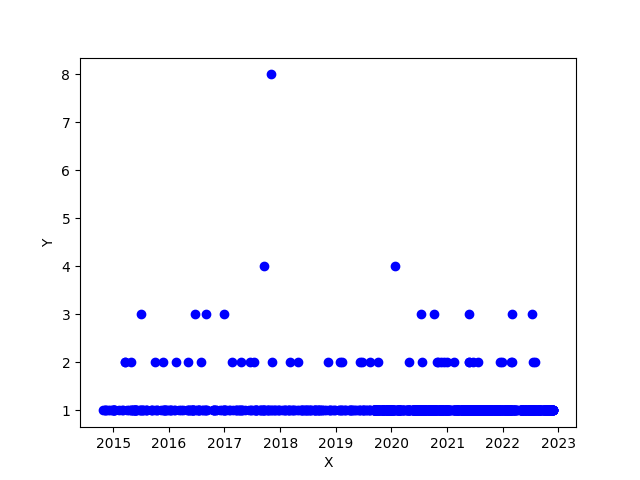
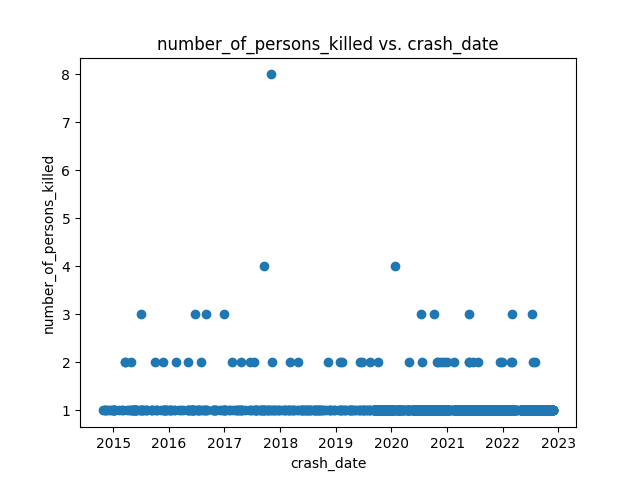
edit README

diff --git a/main.py b/main.py
@@ -24,8 +24,11 @@ count = client.get( # Get the number of collision after 2014-10-28 where number_
     # conditional clauses
     where="crash_date > '2014-10-28T00:00:00.000' AND number_of_persons_killed is not null AND number_of_persons_killed > 0",
 )
-print(count) # Number of collision in total
-print(int(count[0]["count_collision_id"]) / (8 * 365)) # Number of collision average per day
+print("High-level Analysis:")
+print(f"The total number of collisions from 2014-10-28 is: {count[0]['count_collision_id']}") # Number of collision in total
+avg_collision = int(count[0]["count_collision_id"]) / (8 * 365) # Number of collision average per day
+print(f"The average number of collisions from 2014-10-28 is: {avg_collision}")
+print("------------------------------------------------------------------------------")
 
 # Get the number of collision after 2014-10-28 where number_of_persons_killed is greater than 0
 # plus location constraint (to omit bad data)
@@ -40,23 +43,23 @@ records = client.get(
 
 # Convert to pandas DataFrame
 df = pd.DataFrame.from_records(records)
-print(df.head)
-print(df.dtypes)
 df["crash_date"] = pd.to_datetime(df["crash_date"])
 df["crash_time"] = pd.to_datetime(df["crash_time"], format="%H:%M")
 df["latitude"] = df["latitude"].astype(float)
 df["longitude"] = df["longitude"].astype(float)
 df["number_of_persons_injured"] = df["number_of_persons_injured"].astype(int)
 df["number_of_persons_killed"] = df["number_of_persons_killed"].astype(int)
-print(df.dtypes)
+print("DataFrame Overview: ")
+print(df.head)
 
 # find the relationship between crash_date and crashes
 x = df["crash_date"]
 y = df["number_of_persons_killed"]
 # plotting number_of_persons_killed vs. crash_date
-plt.plot(x, y, "bo")
-plt.xlabel("X")
-plt.ylabel("Y")
+plt.plot(x, y, "o")
+plt.xlabel("crash_date")
+plt.ylabel("number_of_persons_killed")
+plt.title("number_of_persons_killed vs. crash_date")
 plt.savefig("results/date_crashes.png")
 plt.close()
 
@@ -64,5 +67,9 @@ plt.close()
 nx = df["latitude"]
 ny = df["longitude"]
 nc = df["number_of_persons_killed"]
-plt.scatter(nx, ny, s=10, c=nc, cmap="gray")
+plt.scatter(nx, ny, s=10, c=nc)
+plt.xlabel("latitude")
+plt.ylabel("longitude")
+plt.title("number_of_persons_killed vs. (latitude, longitude)")
 plt.savefig("results/location_crashes.png")
+plt.close()

diff --git a/README.md b/README.md
@@ -52,3 +52,12 @@ step2. python / python3 main.py # to run the script
 
 ## Results
 The generated images are stored in the root directory and are stored in png format. People may use it as a reference to get information about car accident or collision happened in New York City.
+
+Examples:
+- Relationship between crash date and crashes
+
+![Diagram](./results/date_crashes.png)
+
+- Relationship between location (latitude, longitude) and crashes
+
+![Diagram](./results/location_crashes.png)
